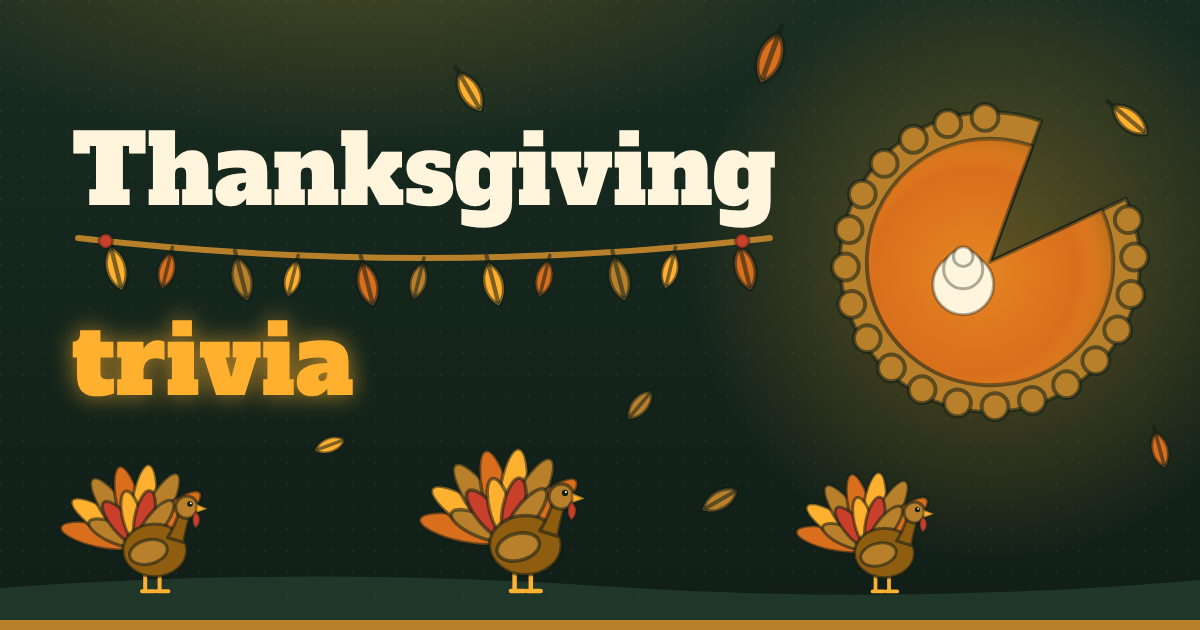
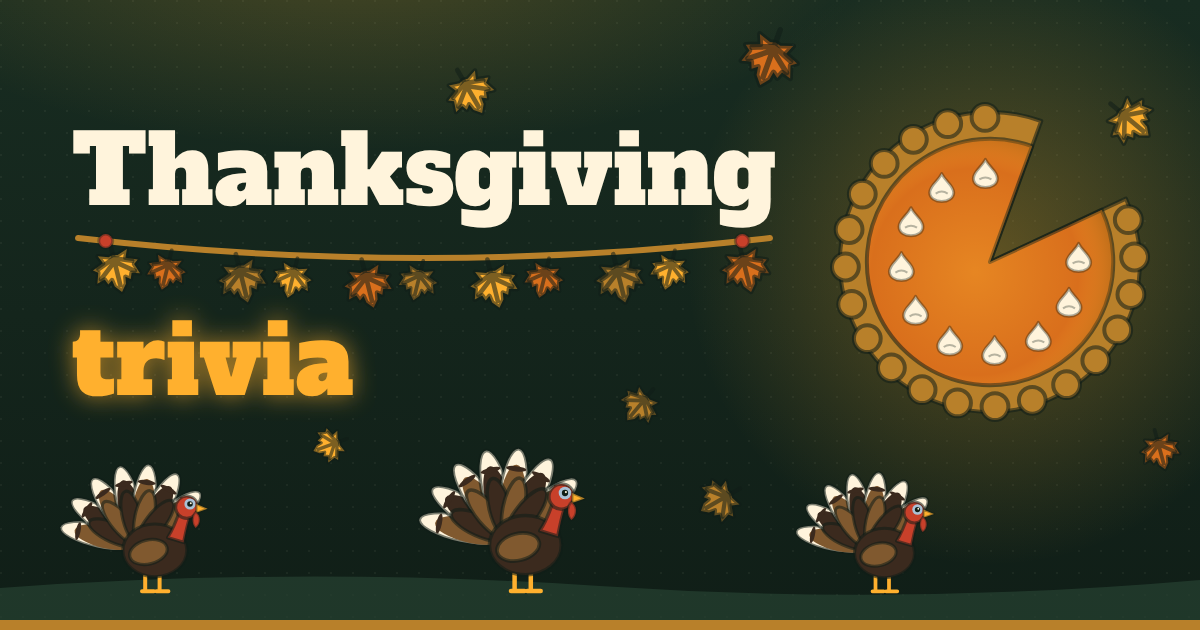
Thanksgiving picture: wild turkeys, maple leaves, ring of piped cream
Paul's picks from the options: the turkeys take wild-turkey colours
(red head, dark bronze body, barred tail), the leaves become maples so
they no longer read as feathers, and the cream dollop becomes a ring of
piped drops round the pie. The share picture is re-rendered from the
same scene.

Claude-Session: https://claude.ai/code/session_01Rj3asy1HVCeDNo4TvcSFhR

diff --git a/src/content/quizzes/scenes/thanksgiving.ts b/src/content/quizzes/scenes/thanksgiving.ts
@@ -1,9 +1,10 @@
 import type { AnimatedScene } from "./index";
 
 /**
- * Thanksgiving: three turkeys trotting along the bottom, leaves drifting down,
- * the pumpkin pie with its dollop of cream, and the words in decorated letters
- * (a leaf garland under "Thanksgiving", a hop running through "trivia").
+ * Thanksgiving: three wild turkeys trotting along the bottom, maple leaves
+ * drifting down, the pumpkin pie with its ring of piped cream, and the words in
+ * decorated letters (a leaf garland under "Thanksgiving", a hop running
+ * through "trivia").
  *
  * Coordinates are in the 1200x630 viewBox. Each moving shape is drawn at its
  * still-frame position and every animation starts from there, after
@@ -41,9 +42,13 @@ const PAINT = {
   "c-fg": "fill: var(--stage-fg)",
   "c-deep": "fill: var(--stage-deep)",
   "c-panel": "fill: var(--stage-panel); fill-opacity: 0.7",
-  // Pumpkin orange and wattle red: the two colours here that are not site tokens.
+  // Not site tokens: pumpkin orange, and a wild turkey's red head, dark
+  // bronze body and feathers, and the blue round its eye.
   "c-pumpkin": "fill: #d96f1c",
   "c-red": "fill: #c8402a",
+  "c-dark": "fill: #3b2a1e",
+  "c-bronze": "fill: #80592f",
+  "c-blue": "fill: #a9c1d6",
 };
 type Paint = keyof typeof PAINT;
 
@@ -72,17 +77,26 @@ function pie(cx: number, cy: number, r: number): string {
     const [x, y] = polar(cx, cy, r - 6 * k, deg);
     scallops.push(`<circle cx="${x}" cy="${y}" r="${f(15 * k)}"/>`);
   }
-  const dollop = (dy: number, rr: number) => `<circle cx="${f(cx - 30 * k)}" cy="${f(cy + dy * k)}" r="${f(rr * k)}"/>`;
+  // Piped cream: small drops in a ring round the filling, none on the cut slice.
+  const drops: string[] = [];
+  for (let deg = cut[1] + 22; deg <= cut[0] + 360 - 10; deg += 30) {
+    const [x, y] = polar(cx, cy, (r - 30 * k) * 0.72, deg);
+    drops.push(`<g transform="translate(${x} ${y}) scale(${f(k * 1.1)})"><path d="M 0 -14 C 4 -6, 12 -2, 12 5 C 12 11, 6 14, 0 14 C -6 14, -12 11, -12 5 C -12 -2, -4 -6, 0 -14 Z" class="c-fg ink-soft"/><path d="M -6 6 Q 0 2 6 6" class="crease"/></g>`);
+  }
   return `<circle cx="${cx}" cy="${cy}" r="${f(340 * k)}" fill="url(#tg-halo)"/>
   <path d="${pieShape(cx, cy, r, cut)}" class="c-brass ink"/>
   <g class="c-brass ink">${scallops.join("")}</g>
   <path d="${pieShape(cx, cy, f(r - 30 * k), cut)}" class="c-pumpkin ink"/>
   <path d="${pieShape(cx, cy, f(r - 30 * k), cut)}" fill="url(#tg-baked)"/>
-  <g class="c-fg ink-soft">${dollop(25, 34)}${dollop(8, 22)}${dollop(-6, 11)}</g>`;
+  ${drops.join("")}`;
 }
 
-/** One leaf, 40 long, centred on the origin with its stem sticking out at the top; drawn once and reused. */
-const LEAF = `<g id="tg-leaf"><path d="M 0 -20 C 12 -10, 12 10, 0 20 C -12 10, -12 -10, 0 -20 Z" ${paint("ink")}/><path d="M 0 -26.4 L 0 16" ${paint("ink", "stem")}/></g>`;
+/**
+ * One maple leaf, about 40 across, centred on the origin with its stem sticking
+ * out at the top (drawn stem-down, then turned); drawn once and reused. Maple,
+ * not a plain oval, so it never reads as one of the turkeys' feathers.
+ */
+const LEAF = `<g id="tg-leaf" transform="rotate(180) scale(1.05)"><path d="M 0 12 L 4 11 L 13 14 L 10 7 L 20 3 L 16 0 L 19 -9 L 12 -7 L 10 -12 L 6 -9 L 5 -15 L 0 -21 L -5 -15 L -6 -9 L -10 -12 L -12 -7 L -19 -9 L -16 0 L -20 3 L -10 7 L -13 14 L -4 11 Z" ${paint("ink")}/><path d="M 0 22 L 0 -15 M 0 6 L 15 -6 M 0 6 L -15 -6 M 0 9 L 15 3 M 0 9 L -15 3" ${paint("ink", "stem")}/></g>`;
 
 /** The leaf, `len` long, in `color` (a c-* class). */
 function leaf(len: number, color: Paint): string {
@@ -131,26 +145,33 @@ function words(): string {
   ${letters.join("")}`;
 }
 
-/** A turkey from plain shapes, facing right, without its legs, feet at the origin; drawn once and reused. */
+/** A wild turkey from plain shapes, facing right, without its legs, feet at the origin; drawn once and reused. */
 function turkeyBody(): string {
-  const feathers = (rx: number, ry: number, colors: Paint[], from: number, to: number) => {
-    const n = colors.length;
-    return colors
+  // Tail feathers: cream underneath shows as a tip band, with a dark bar across each.
+  const tail = (rx: number, ry: number, colors: Paint[], from: number, to: number) =>
+    colors
       .map((c, i) => {
-        const deg = f(from + ((to - from) * i) / (n - 1));
+        const deg = f(from + ((to - from) * i) / (colors.length - 1));
+        return `<g transform="rotate(${deg})"><ellipse cx="0" cy="${-ry}" rx="${rx}" ry="${ry}" ${paint("c-fg", "ink")}/><ellipse cx="0" cy="${-ry + 9}" rx="${rx - 1}" ry="${ry - 9}" ${paint(c)}/><ellipse cx="0" cy="${f(-ry * 1.55)}" rx="${f(rx * 0.75)}" ry="3" ${paint("c-dark")}/></g>`;
+      })
+      .join("");
+  const inner = (rx: number, ry: number, colors: Paint[], from: number, to: number) =>
+    colors
+      .map((c, i) => {
+        const deg = f(from + ((to - from) * i) / (colors.length - 1));
         return `<ellipse cx="0" cy="${-ry}" rx="${rx}" ry="${ry}" transform="rotate(${deg})" ${paint(c, "ink")}/>`;
       })
       .join("");
-  };
   return `<g id="tg-turkey">
       <g transform="translate(-14 -60)">
-        ${feathers(15, 50, ["c-pumpkin", "c-gold", "c-brass", "c-pumpkin", "c-gold", "c-brass", "c-pumpkin"], -78, 50)}
-        ${feathers(12, 34, ["c-brass", "c-red", "c-gold", "c-red", "c-brass"], -66, 38)}
+        ${tail(15, 50, ["c-bronze", "c-dark", "c-bronze", "c-dark", "c-bronze", "c-dark", "c-bronze"], -78, 50)}
+        ${inner(12, 34, ["c-dark", "c-bronze", "c-dark", "c-bronze", "c-dark"], -66, 38)}
       </g>
-      <ellipse cx="6" cy="-52" rx="40" ry="33" ${paint("c-amber", "ink")}/>
-      <ellipse cx="-2" cy="-50" rx="24" ry="15" transform="rotate(-14 -2 -50)" ${paint("c-brass", "ink")}/>
-      <path d="M 22 -68 C 30 -80, 34 -92, 38 -104 L 52 -100 C 47 -88, 45 -76, 42 -62 Z" ${paint("c-amber", "ink")}/>
-      <circle cx="46" cy="-106" r="14" ${paint("c-brass", "ink")}/>
+      <ellipse cx="6" cy="-52" rx="40" ry="33" ${paint("c-dark", "ink")}/>
+      <ellipse cx="-2" cy="-50" rx="24" ry="15" transform="rotate(-14 -2 -50)" ${paint("c-bronze", "ink")}/>
+      <path d="M 22 -68 C 30 -80, 34 -92, 38 -104 L 52 -100 C 47 -88, 45 -76, 42 -62 Z" ${paint("c-red", "ink")}/>
+      <circle cx="46" cy="-106" r="14" ${paint("c-red", "ink")}/>
+      <circle cx="50" cy="-110" r="7" ${paint("c-blue")}/>
       <path d="M 58 -110 L 72 -104 L 58 -99 Z" ${paint("c-gold", "ink-soft")}/>
       <path d="M 57 -100 C 64 -96, 64 -85, 57 -80 C 52 -85, 52 -95, 57 -100 Z" ${paint("c-red", "ink-soft")}/>
       <circle cx="50" cy="-110" r="3.5" ${paint("c-deep")}/>
@@ -158,6 +179,7 @@ function turkeyBody(): string {
     </g>
     <path id="tg-leg" d="M 0 0 L 0 24 M -4 25 L 11 25" ${paint("leg-line")}/>`;
 }
+
 
 /**
  * A turkey with its legs, feet on the ground at x. `step` is how long one
@@ -256,6 +278,7 @@ const css = `
 ${Object.entries(PAINT)
   .map(([name, rules]) => `${ROOT} .${name} { ${rules}; }`)
   .join("\n")}
+${ROOT} .crease { fill: none; stroke: var(--stage-deep); stroke-opacity: 0.3; stroke-width: 2; }
 ${ROOT} .vine { fill: none; stroke: var(--brass); stroke-width: 6; stroke-linecap: round; }
 ${ROOT} .word { font-family: var(--font-display), "Rockwell Extra Bold", Georgia, serif; font-size: 96px; }
 
